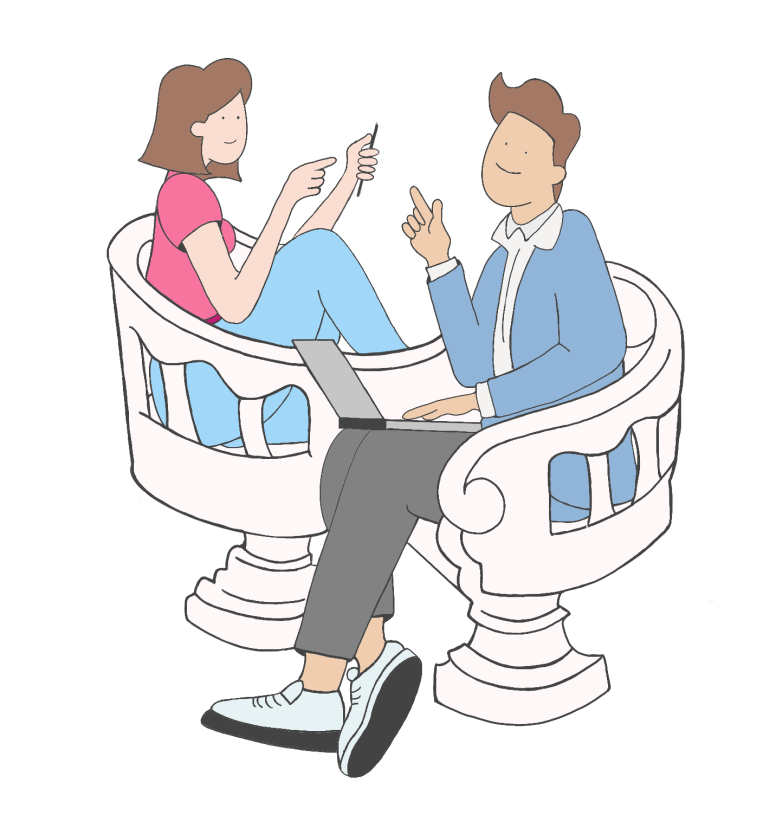
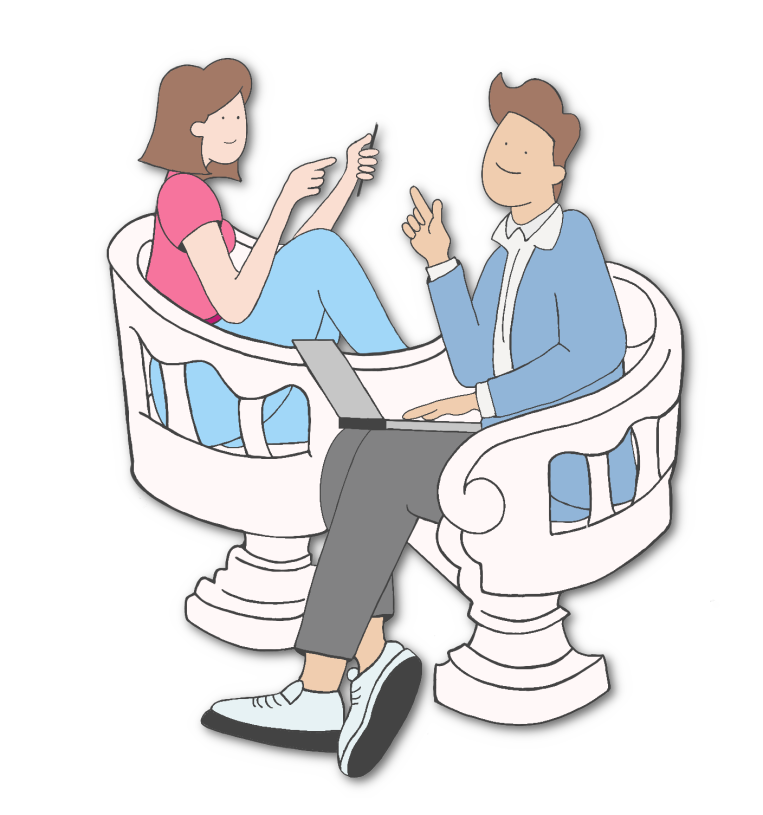
DKC-517

diff --git a/resources/sass/app.scss b/resources/sass/app.scss
@@ -72,8 +72,8 @@ div.dataTables_wrapper div.dataTables_paginate ul.pagination{
 
 .btn-highlight-two {
   color: #ffffff;
-  background-color: #a1d7f8 !important;
-  border-color: #a1d7f8 !important;
+  background-color: #91b5d8 !important;
+  border-color: #91b5d8 !important;
 }
 
 // Medium devices (tablets, 768px and up)

diff --git a/public/css/app.css b/public/css/app.css
@@ -70,8 +70,8 @@ h1.color-primary {
 
 .btn-highlight-two {
   color: #ffffff;
-  background-color: #a1d7f8 !important;
-  border-color: #a1d7f8 !important;
+  background-color: #91b5d8 !important;
+  border-color: #91b5d8 !important;
 }
 
 @media (min-width: 992px) {

diff --git a/resources/views/default/index.blade.php b/resources/views/default/index.blade.php
@@ -6,7 +6,7 @@
             <div class="row align-items-center flex-md-row-reverse justify-content-between">
                 <div class="col-lg-5 col-12 col-md-6">
                     <div class="row justify-content-center">
-                        <div class="hero-image col-8 col-md-12">
+                        <div class="hero-image col-8 col-md-12 d-none d-md-block">
                             <img src="images/tuyyo.png" alt="" class="">
                             
                         </div>
@@ -51,6 +51,10 @@
                                     <br>
                                      <span class="text-small">Obtén un crédito con las mejores condiciones </span>
                                 </a>
+                            </div>
+                            <div class="hero-image col-12 d-block d-md-none">
+                                <img src="images/tuyyo.png" alt="" class="">
+                                
                             </div>
                            {{--  <div class="col-12 col-md-12">
                                 <a href="https://api.whatsapp.com/send?phone=+529999208020&text=Hola, quiero reducir mi deuda"  class="btn col-12 btn-highlight btn-block">Crédito personal</a>
